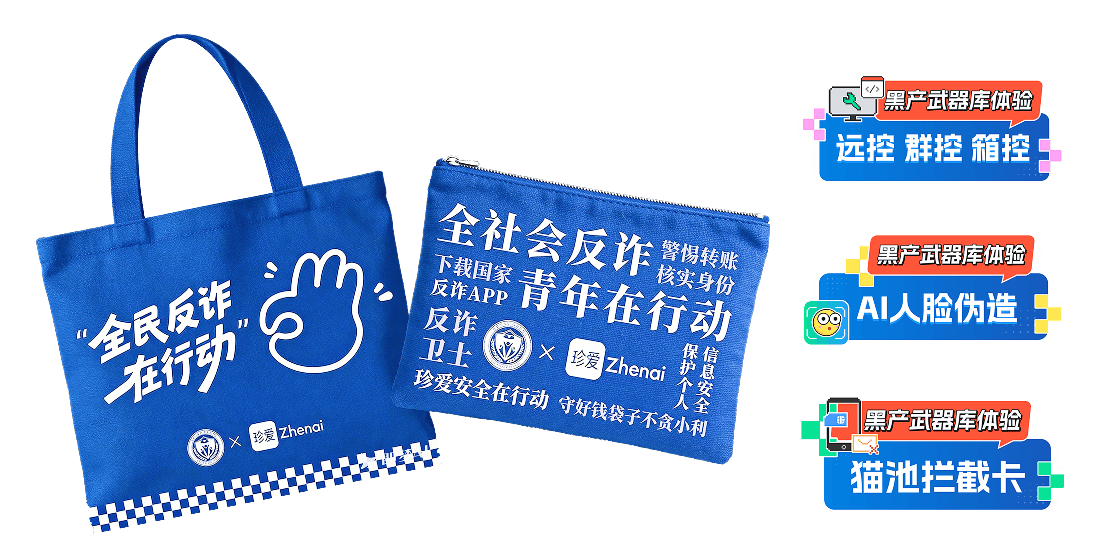
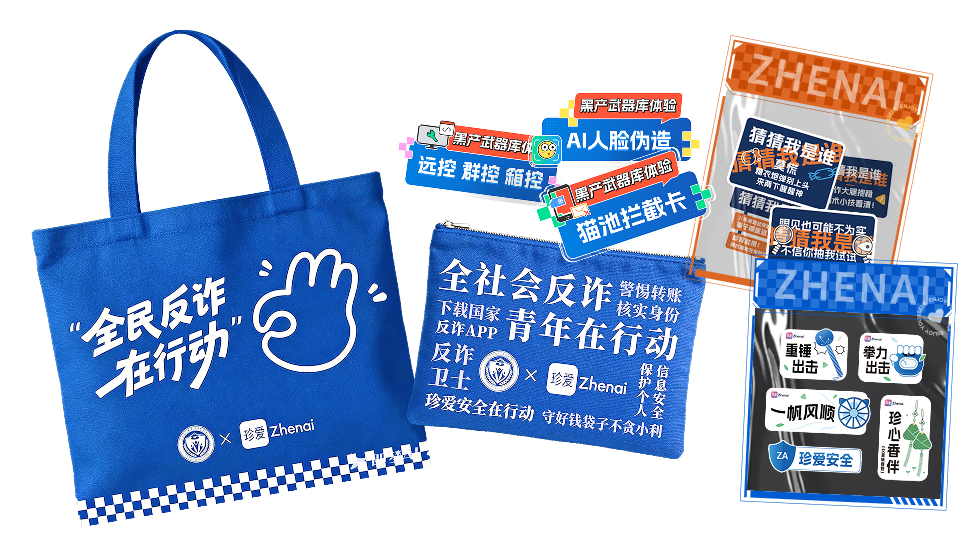
更新作品集布局与运营活动素材

diff --git a/styles.css b/styles.css
@@ -364,7 +364,7 @@ dd:lang(zh) {
 .activity-design-intro {
   width: min(100%, 1600px);
   margin-inline: auto;
-  padding: clamp(36px, 3.75vw, 60px) var(--page-padding) 0;
+  padding: clamp(18px, 1.875vw, 30px) var(--page-padding) 0;
 }
 
 .activity-design-intro .card-stack__heading {
@@ -418,7 +418,7 @@ dd:lang(zh) {
 }
 
 #project-01 {
-  padding-bottom: clamp(56px, 5vw, 83px);
+  padding-bottom: clamp(10px, 0.8vw, 16px);
 }
 
 #project-02 {
@@ -764,6 +764,18 @@ dd:lang(zh) {
   white-space: nowrap;
 }
 
+#project-01 .project__meta-rule.project__concept-divider {
+  position: relative;
+  top: clamp(30px, 3.5vw, 67px);
+  height: 1px;
+  margin-top: 0;
+}
+
+#project-01 .project__meta-rule.project__section-divider {
+  height: 1px;
+  margin-top: 0;
+}
+
 #project-01 .project__process {
   position: relative;
   width: min(100%, 1261px);
@@ -859,6 +871,28 @@ dd:lang(zh) {
 
 #project-01 .project__gallery {
   margin-top: clamp(20px, 3vw, 48px);
+}
+
+@media (min-width: 768px) {
+  #project-01 .project__process {
+    margin-top: clamp(13px, 3vw, 42px);
+    margin-bottom: clamp(-33px, -2.62vw, -20px);
+  }
+
+  #project-01 .project__process-line--to-adjustments {
+    left: 39.35%;
+    width: 17.3%;
+  }
+
+  #project-01 .project__process-line--to-logo {
+    top: 55.2%;
+    width: 3.7%;
+  }
+
+  #project-01 .project__gallery {
+    margin-top: clamp(10px, 1.5vw, 24px);
+    margin-bottom: clamp(-64px, -5vw, -38px);
+  }
 }
 
 #project-01 .project__gallery-composition {
@@ -975,6 +1009,23 @@ dd:lang(zh) {
   height: auto;
 }
 
+@media (min-width: 768px) {
+  #project-01 .project__gallery-hero {
+    top: 10%;
+  }
+
+  #project-01 .project__gallery-tagline {
+    top: 59.7%;
+  }
+
+  #project-01 .project__gallery-offline {
+    top: 68.8%;
+    left: 8.3%;
+    transform: scale(0.8);
+    transform-origin: center;
+  }
+}
+
 :is(#project-02, .coffee-viewer__content) > .project__eyebrow {
   position: relative;
   z-index: 0;
@@ -1027,6 +1078,17 @@ dd:lang(zh) {
 
 #project-02 .project__visual {
   margin: 0;
+}
+
+#project-02 .project-02__touchpoints {
+  width: 88%;
+  margin: clamp(16px, 2vw, 32px) auto 0;
+}
+
+#project-02 .project-02__touchpoints img {
+  display: block;
+  width: 100%;
+  height: auto;
 }
 
 .coffee-viewer__content .project-02__layout {
@@ -3277,6 +3339,12 @@ html.quiz-viewer-open body {
   padding: 0 0 clamp(64px, 5vw, 80px);
 }
 
+@media (min-width: 768px) {
+  .ai-video {
+    padding-top: clamp(42px, 3.6vw, 61px);
+  }
+}
+
 .ai-video__heading {
   --heading-accent: #7ac1ff;
   margin: 0 0 clamp(24px, 2.5vw, 40px);
@@ -3638,6 +3706,7 @@ html.quiz-viewer-open body {
 @media (max-width: 600px) {
   .ai-video {
     padding-inline: 20px;
+    padding-top: clamp(32px, 9vw, 48px);
   }
 
   .ai-video__counter {
@@ -3866,6 +3935,12 @@ html.quiz-viewer-open body {
 
 .card-stack__exit {
   height: clamp(120px, 18svh, 240px);
+}
+
+@media (min-width: 768px) {
+  .card-stack__exit {
+    height: clamp(60px, 9svh, 120px);
+  }
 }
 
 .ecommerce-design {
@@ -4605,7 +4680,7 @@ html.quiz-viewer-open body {
   }
 
   .ecommerce-design {
-    padding: 0 20px 48px;
+    padding: clamp(32px, 9vw, 48px) 20px 48px;
   }
 
   .ecommerce-design__preview {
@@ -5000,17 +5075,18 @@ html.quiz-viewer-open body {
 
 @media (max-width: 900px) {
   .quiz-viewer__content {
-    display: block;
+    display: grid;
+    align-items: center;
     min-height: 100dvh;
     padding: 88px 20px 48px;
   }
 
   .quiz-viewer__layout {
-    display: flex;
-    flex-direction: column;
+    display: grid;
+    grid-template-columns: minmax(0, 42%) minmax(0, 1fr);
     align-items: center;
-    gap: 40px;
-    width: min(540px, 100%);
+    gap: clamp(16px, 4vw, 36px);
+    width: min(720px, 100%);
   }
 
   .quiz-viewer__projects {
@@ -5018,11 +5094,25 @@ html.quiz-viewer-open body {
   }
 
   .quiz-viewer__phone-stage {
-    width: min(290px, 68vw);
+    width: 100%;
+    max-width: 300px;
+  }
+
+  .quiz-viewer #project-03 {
+    padding: 0;
   }
 
   .quiz-viewer__project {
-    padding: 20px 0;
+    padding: clamp(12px, 1.8vw, 20px) 0;
+  }
+
+  .quiz-viewer__project-toggle {
+    min-height: clamp(34px, 5vw, 51px);
+  }
+
+  .quiz-viewer__project-details p {
+    font-size: clamp(12px, 1.6vw, 14px);
+    line-height: 1.6;
   }
 
   .quiz-viewer__project-banner--ai {
@@ -5030,9 +5120,17 @@ html.quiz-viewer-open body {
   }
 
   .quiz-viewer__result-arrow {
-    width: clamp(28px, 7vw, 36px);
-    height: clamp(28px, 7vw, 36px);
-    font-size: clamp(18px, 5vw, 24px);
+    width: clamp(24px, 5vw, 36px);
+    height: clamp(24px, 5vw, 36px);
+    font-size: clamp(16px, 4vw, 22px);
+  }
+
+  .quiz-viewer__result-arrow--previous {
+    right: calc(100% - 14px);
+  }
+
+  .quiz-viewer__result-arrow--next {
+    left: calc(100% - 14px);
   }
 
   .quiz-viewer__result-count {

diff --git a/index.html b/index.html
@@ -247,6 +247,8 @@
         </div>
       </div>
 
+      <div class="project__meta-rule project__concept-divider" aria-hidden="true" data-reveal></div>
+
       <section class="project__process" aria-label="视觉生成与画面调整过程" data-reveal>
         <figure class="project__process-stage project__process-stage--base">
           <img src="./pic/生成01.png" alt="线稿构图与粉色流光主画面" width="423" height="219" loading="lazy" decoding="async" />
@@ -275,9 +277,10 @@
             <img src="./pic/1-2缘分墙.jpg" alt="心动缘分墙活动主视觉" width="2752" height="1536" loading="lazy" decoding="async" />
           </div>
           <p class="project__gallery-tagline">SHAPED BY ETERNITY<br />SOFTENED BY LOVE</p>
-          <img class="project__gallery-offline" src="./pic/1-4缘分墙线下.png" alt="心动缘分墙线下装置、互动道具与线上报名展示" width="1496" height="316" loading="lazy" decoding="async" />
+          <img class="project__gallery-offline" src="./pic/1-4缘分墙线下.png" alt="心动缘分墙线下装置、互动道具与线上报名展示" width="1689" height="316" loading="lazy" decoding="async" />
         </div>
       </div>
+      <div class="project__meta-rule project__section-divider" aria-hidden="true" data-reveal></div>
     </section>
 
     <section class="project" id="project-02" aria-labelledby="project-02-title">
@@ -320,6 +323,16 @@
               alt="咖友对对碰活动主视觉：上海城市街景中，两位年轻人举起咖啡碰杯"
               width="1073"
               height="599"
+              loading="lazy"
+              decoding="async"
+            />
+          </figure>
+          <figure class="project-02__touchpoints" data-reveal>
+            <img
+              src="./pic/打卡点.png"
+              alt="咖友对对碰六个打卡点：早C晚C、包开心、交个朋友、申申不息、毛孩子和咖星人碰头点"
+              width="1865"
+              height="406"
               loading="lazy"
               decoding="async"
             />
@@ -458,7 +471,7 @@
         <article class="work-collection__placeholder work-collection__placeholder--square">
           <span class="work-card__number" aria-hidden="true">05</span>
           <h3>文创周边设计</h3>
-          <img class="work-collection__creative-image" src="./pic/文创.png" alt="反诈主题帆布包、手册与活动周边设计" width="548" height="273" loading="lazy" decoding="async" />
+          <img class="work-collection__creative-image" src="./pic/文创.png" alt="反诈主题帆布包、手册与活动周边设计" width="973" height="542" loading="lazy" decoding="async" />
           <button class="work-card__open work-card__open--creative" type="button" aria-label="打开文创周边设计作品查看" aria-haspopup="dialog" aria-controls="creativeViewer"></button>
         </article>
       </div>
@@ -783,7 +796,7 @@
       <header class="creative-viewer__header">
         <button class="work-viewer__back creative-viewer__back" type="button" aria-label="返回作品列表"></button>
       </header>
-      <img class="creative-viewer__image" src="./pic/文创.png" alt="反诈主题帆布包、手册与活动周边设计" width="548" height="273" loading="lazy" decoding="async" />
+      <img class="creative-viewer__image" src="./pic/文创.png" alt="反诈主题帆布包、手册与活动周边设计" width="973" height="542" loading="lazy" decoding="async" />
     </dialog>
     <dialog class="research-viewer" id="researchViewer" aria-label="调研作品查看" data-lenis-prevent>
       <header class="research-viewer__header">
